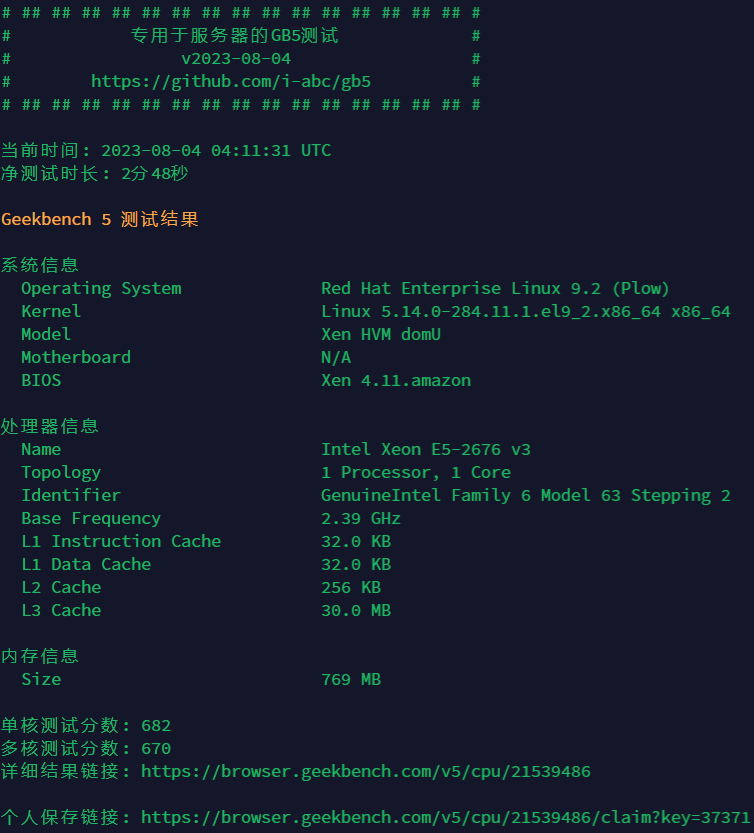
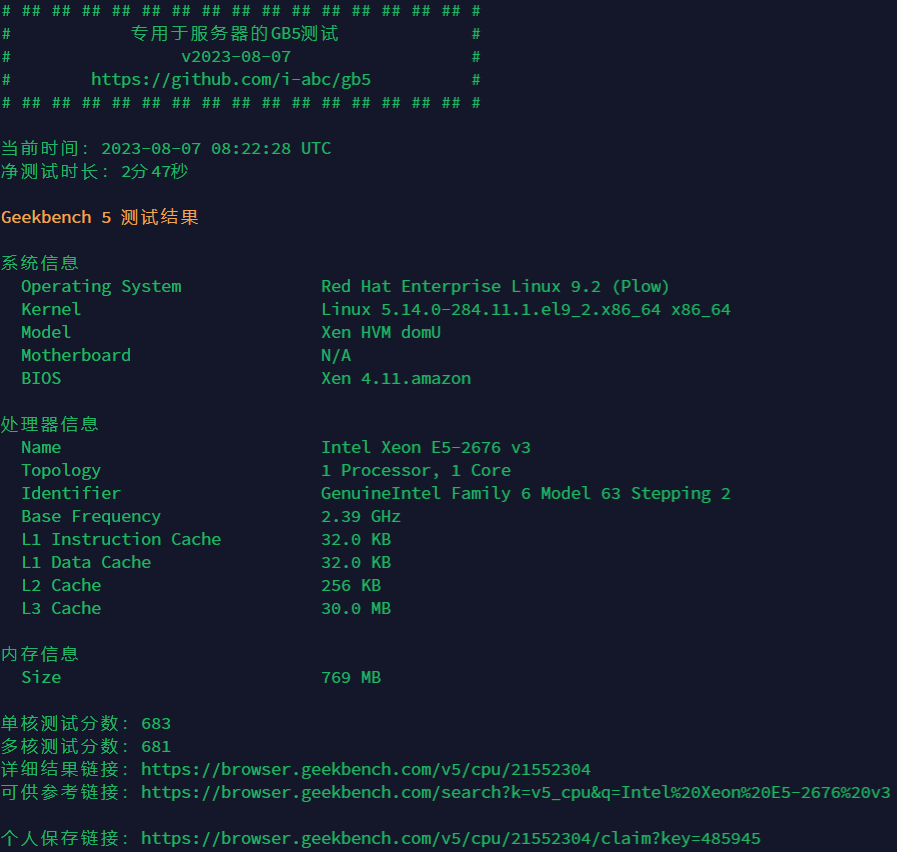
(更新 文档): 更新 README.md

diff --git a/README.md b/README.md
@@ -4,15 +4,13 @@
 
 ## 脚本特性
 
-1. 一键即用，无需提前做任何准备
-2. 适配 x86_64、aarch64
-3. 自动选源，国内启用镜像源
-4. 拥有 SHA-256 校验，杜绝恶意程序
-5. 针对内存不足 1G 的服务器，会自动添加 Swap
-6. 测试无残留，测试产生的文件、Swap 会自动清除
-7. 测试结果易于分享
-8. 提供个人保存链接
-9. 提供同类型 CPU 供比对参考
+1. 适配 x86_64、aarch64
+2. 针对大陆优化，缩减 GB5 程序下载时间
+3. 拥有 SHA-256 校验，杜绝恶意程序
+4. 针对内存不足 1G 的服务器，会自动添加 Swap
+5. 测试无残留，测试产生的文件、Swap 会清除
+6. 提供详细结果、个人保存链接
+7. 提供同类型 CPU 参考
 
 ## 使用方法
 
@@ -43,9 +41,57 @@ bash <(wget -qO- https://ghproxy.com/https://raw.githubusercontent.com/i-abc/GB5
 
 ![](https://github.com/i-abc/GB5/raw/main/images/1.png)
 
+```
+# ## ## ## ## ## ## ## ## ## ## ## ## ## ## ## #
+#            专用于服务器的GB5测试             #
+#                 v2023-08-07                  #
+#        https://github.com/i-abc/gb5          #
+# ## ## ## ## ## ## ## ## ## ## ## ## ## ## ## #
+
+当前时间：2023-08-07 08:22:28 UTC
+净测试时长：2分47秒
+
+Geekbench 5 测试结果
+
+系统信息
+  Operating System              Red Hat Enterprise Linux 9.2 (Plow)
+  Kernel                        Linux 5.14.0-284.11.1.el9_2.x86_64 x86_64
+  Model                         Xen HVM domU
+  Motherboard                   N/A
+  BIOS                          Xen 4.11.amazon
+
+处理器信息
+  Name                          Intel Xeon E5-2676 v3
+  Topology                      1 Processor, 1 Core
+  Identifier                    GenuineIntel Family 6 Model 63 Stepping 2
+  Base Frequency                2.39 GHz
+  L1 Instruction Cache          32.0 KB
+  L1 Data Cache                 32.0 KB
+  L2 Cache                      256 KB
+  L3 Cache                      30.0 MB
+
+内存信息
+  Size                          769 MB
+
+单核测试分数：683
+多核测试分数：681
+详细结果链接：https://browser.geekbench.com/v5/cpu/21552304
+可供参考链接：https://browser.geekbench.com/search?k=v5_cpu&q=Intel%20Xeon%20E5-2676%20v3
+
+个人保存链接：https://browser.geekbench.com/v5/cpu/21552304/claim?key=485945
+```
+
 - 完整过程
 
 ![](https://github.com/i-abc/GB5/raw/main/images/1.gif)
+
+- x86_64
+
+![](https://github.com/i-abc/GB5/raw/main/images/2.png)
+
+- aarch64
+
+![](https://github.com/i-abc/GB5/raw/main/images/3.png)
 
 ## 待办
 
